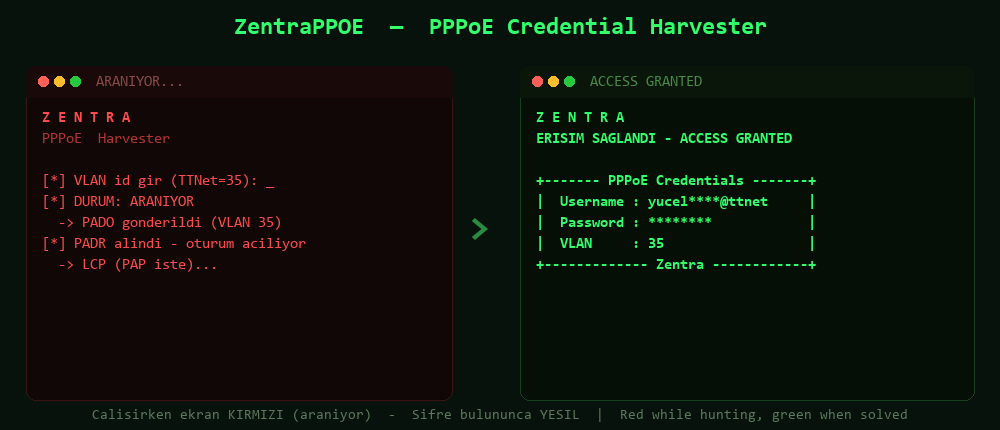
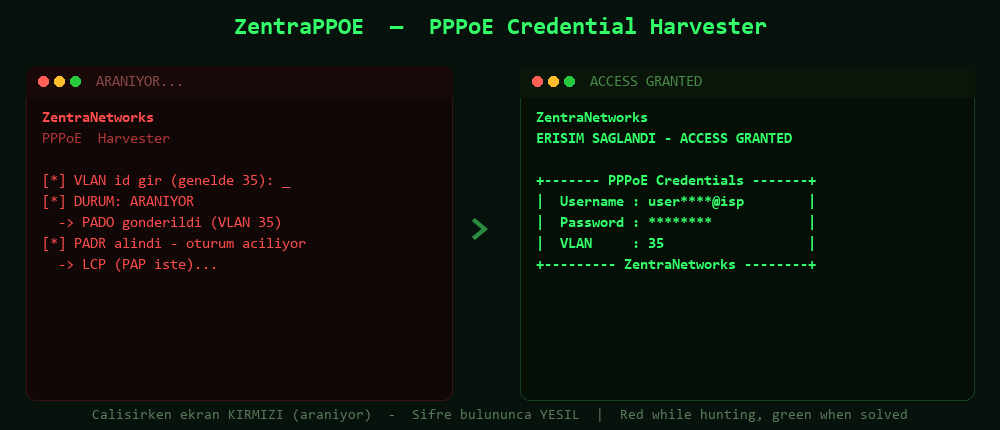
Add files via upload

diff --git a/README.md b/README.md
@@ -22,6 +22,9 @@ router kurmak ya da modemi köprü (bridge) moda almak istediğinizde bu şifre 
 elinizde olmaz. **ZentraPPOE**, modem internete bağlanırken giden kimlik doğrulama
 bilgisini yakalayarak **kullanıcı adı ve şifreyi size geri verir.**
 
+Normalde bu şifreyi öğrenmek için ISP'nizin çağrı merkezini arayıp **30–40 dakika**
+telefonda uğraşmanız gerekebilir — ZentraPPOE bunu **kendiniz, dakikalar içinde** halleder.
+
 > ⚠ **Yasal uyarı:** Bu aracı **yalnızca kendi hattınızda** veya **yazılı olarak
 > yetkilendirildiğiniz** bir hat üzerinde kullanın. Başkasının bilgilerini izinsiz
 > ele geçirmek suçtur. Sorumluluk kullanıcıya aittir.
@@ -31,7 +34,7 @@ bilgisini yakalayarak **kullanıcı adı ve şifreyi size geri verir.**
 Modem internete bağlanmak için ISP'ye "ben buyum" diye kimlik doğrulaması yapar.
 ZentraPPOE, bilgisayarınızı **sahte bir ISP sunucusu** gibi davrandırır; modem bağlanmaya
 çalışınca içindeki gömülü kullanıcı adı/şifreyi gönderir ve araç bunu ekrana yazar.
-Türk Telekom/TTNet gibi sağlayıcılarda trafik **VLAN 35** etiketiyle gider — araç bunu
+Bazı ISP'lerde trafik bir **VLAN** etiketiyle (çoğunlukla **VLAN 35**) gider — araç bunu
 otomatik algılar.
 
 ### Neye ihtiyacın var?
@@ -49,7 +52,7 @@ otomatik algılar.
 2. [Npcap](https://npcap.com/)'i kur (bir kere).
 3. Modemin **WAN kablosunu** bilgisayarına tak.
 4. `ZentraPPOE.exe`'ye **çift tıkla** → **"Evet"** (yönetici izni).
-5. Açılan siyah ekranda **VLAN** sorulur: TTNet için `35` yaz, bilmiyorsan **Enter** (otomatik).
+5. Açılan siyah ekranda **VLAN** sorulur: ISP'niz VLAN kullanıyorsa numarasını yaz (genelde `35`), bilmiyorsan **Enter** (otomatik).
 6. Modemi **kapat-aç** (veya WAN kablosunu sök-tak).
 7. Ekran **kırmızıdan yeşile** döner → kullanıcı adı ve şifre kutuda görünür. ✅
 
@@ -98,6 +101,9 @@ up a new router or to put the modem in bridge mode — but you don't have it. **
 captures the authentication the modem sends when it connects, and **gives you back the
 username and password.**
 
+Instead of spending **30–40 minutes** on the phone with your ISP's call center to get it,
+ZentraPPOE lets you do it **yourself, in minutes.**
+
 > ⚠ **Legal notice:** Use this **only on your own line**, or a line you are **explicitly
 > authorized** to work on. Capturing someone else's credentials without permission is
 > illegal. You are responsible for how you use it.
@@ -106,7 +112,7 @@ username and password.**
 
 When a modem connects, it authenticates to the ISP. ZentraPPOE makes your computer act as
 a **fake ISP server**; the moment the modem tries to connect, it sends its stored
-username/password and the tool prints them. On providers like TTNet the traffic is tagged
+username/password and the tool prints them. On some ISPs the traffic is tagged
 with **VLAN 35** — the tool detects this automatically.
 
 ### What you need
@@ -124,7 +130,7 @@ with **VLAN 35** — the tool detects this automatically.
 2. Install [Npcap](https://npcap.com/) (once).
 3. Plug the modem's **WAN cable** into your computer.
 4. **Double-click** `ZentraPPOE.exe` → **"Yes"** (admin).
-5. It asks for **VLAN**: type `35` for TTNet, or press **Enter** (auto-detect).
+5. It asks for **VLAN**: type your ISP's VLAN number if it uses one (often `35`), or press **Enter** (auto-detect).
 6. **Power-cycle** the modem (or re-plug the WAN cable).
 7. The screen turns from **red to green** → username and password appear. ✅
 
